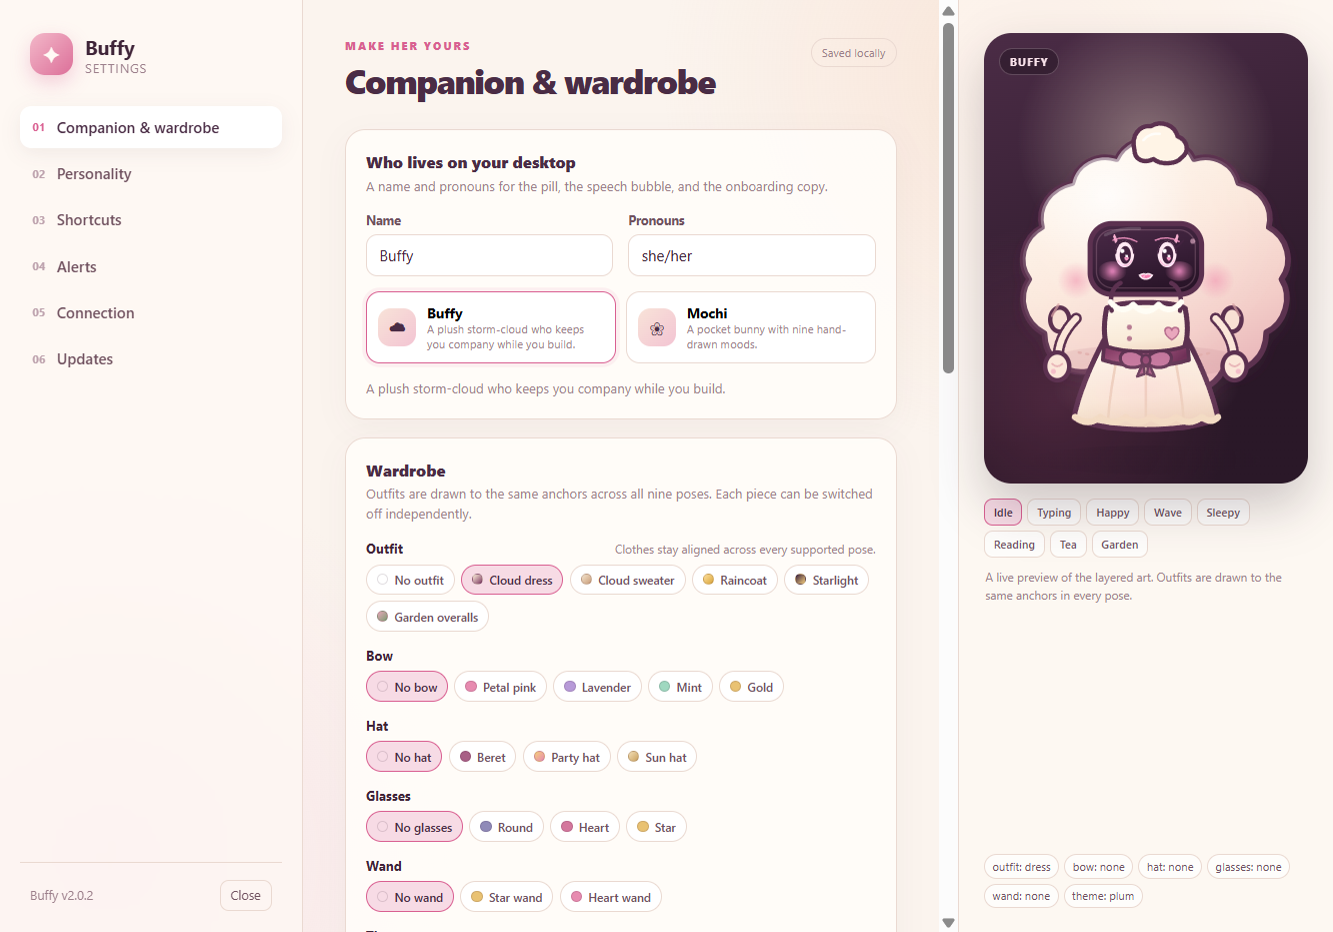
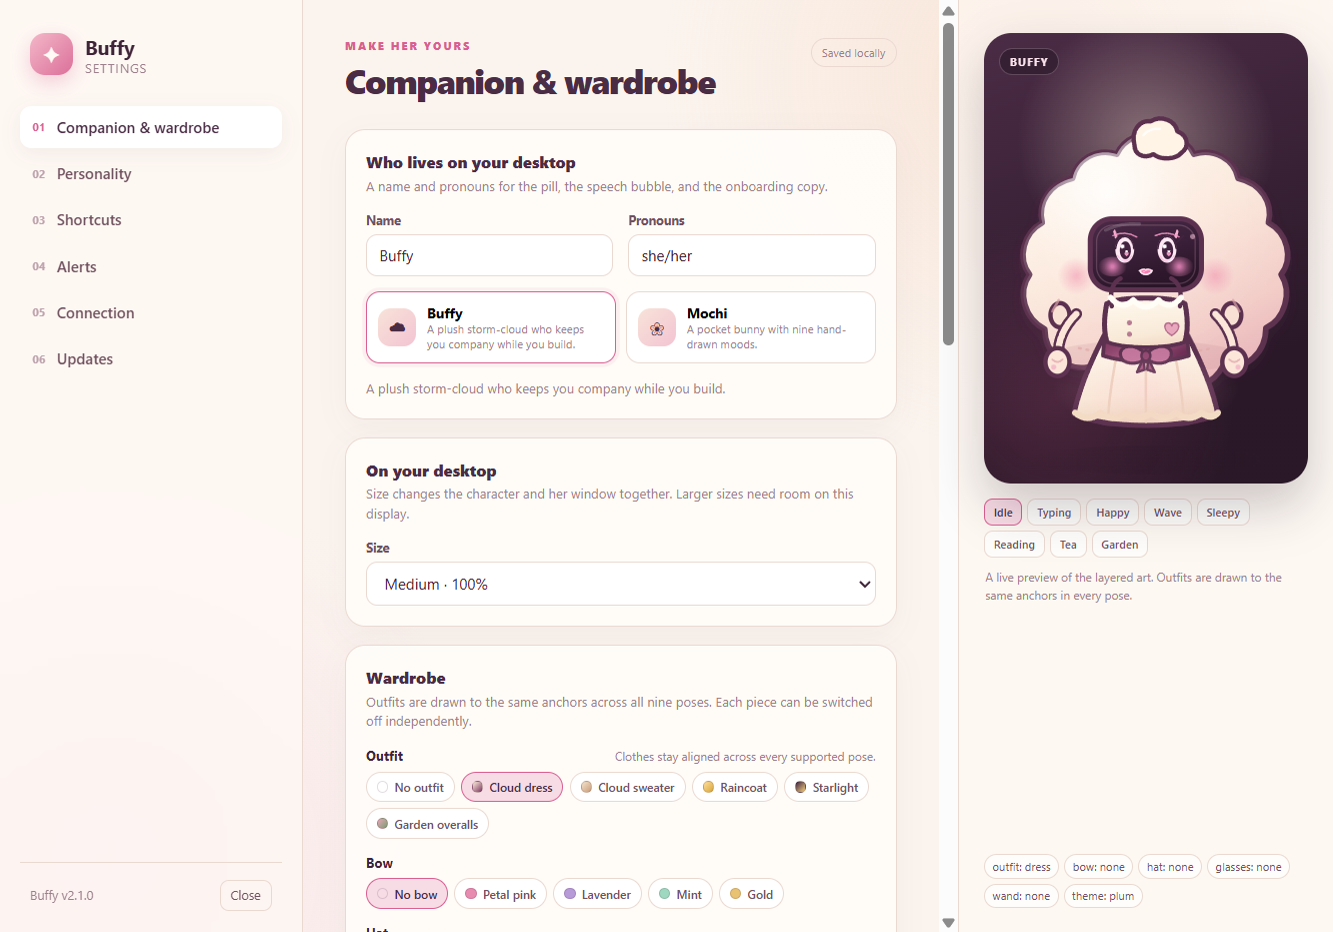
Show the size control in the settings screenshot
The docs shot predates the Small-Huge size picker, so recapture it with the
new card visible and mention the control in the README and site alt text.
Screenshot runs now wait out the connection toast so captures stay clean.

🤖 Generated with Codebuff

diff --git a/docs/index.html b/docs/index.html
@@ -103,9 +103,9 @@
         <div class="shot-grid">
           <figure class="shot shot-wide">
             <div class="shot-art art-lilac">
-              <img src="shots/settings.png" width="1333" height="932" loading="lazy" alt="Buffy's settings window with six sections, a character picker, wardrobe controls, outfit chips, and a live animated preview of Buffy">
+              <img src="shots/settings.png" width="1333" height="932" loading="lazy" alt="Buffy's settings window with six sections, a character picker, a Size control from Small to Huge, wardrobe controls, outfit chips, and a live animated preview of Buffy">
             </div>
-            <figcaption><strong>Make her yours</strong><span>Six settings sections, per-character wardrobe, 32 saved looks, and a live animated preview.</span></figcaption>
+            <figcaption><strong>Make her yours</strong><span>Six settings sections, a Small–Huge size control, per-character wardrobe, 32 saved looks, and a live animated preview.</span></figcaption>
           </figure>
           <figure class="shot shot-tall">
             <div class="shot-art art-pink">

diff --git a/README.md b/README.md
@@ -178,7 +178,7 @@ Clothing selections are stored per character. Unavailable art is disabled in
 the choice list rather than silently deleting a saved selection.
 
 <p align="center">
-  <img src="docs/shots/settings.png" width="760" alt="Buffy settings with the live character preview and wardrobe controls">
+  <img src="docs/shots/settings.png" width="760" alt="Buffy settings showing the Size control set to Medium, the live character preview, and wardrobe controls">
 </p>
 
 ### Daily rotation
